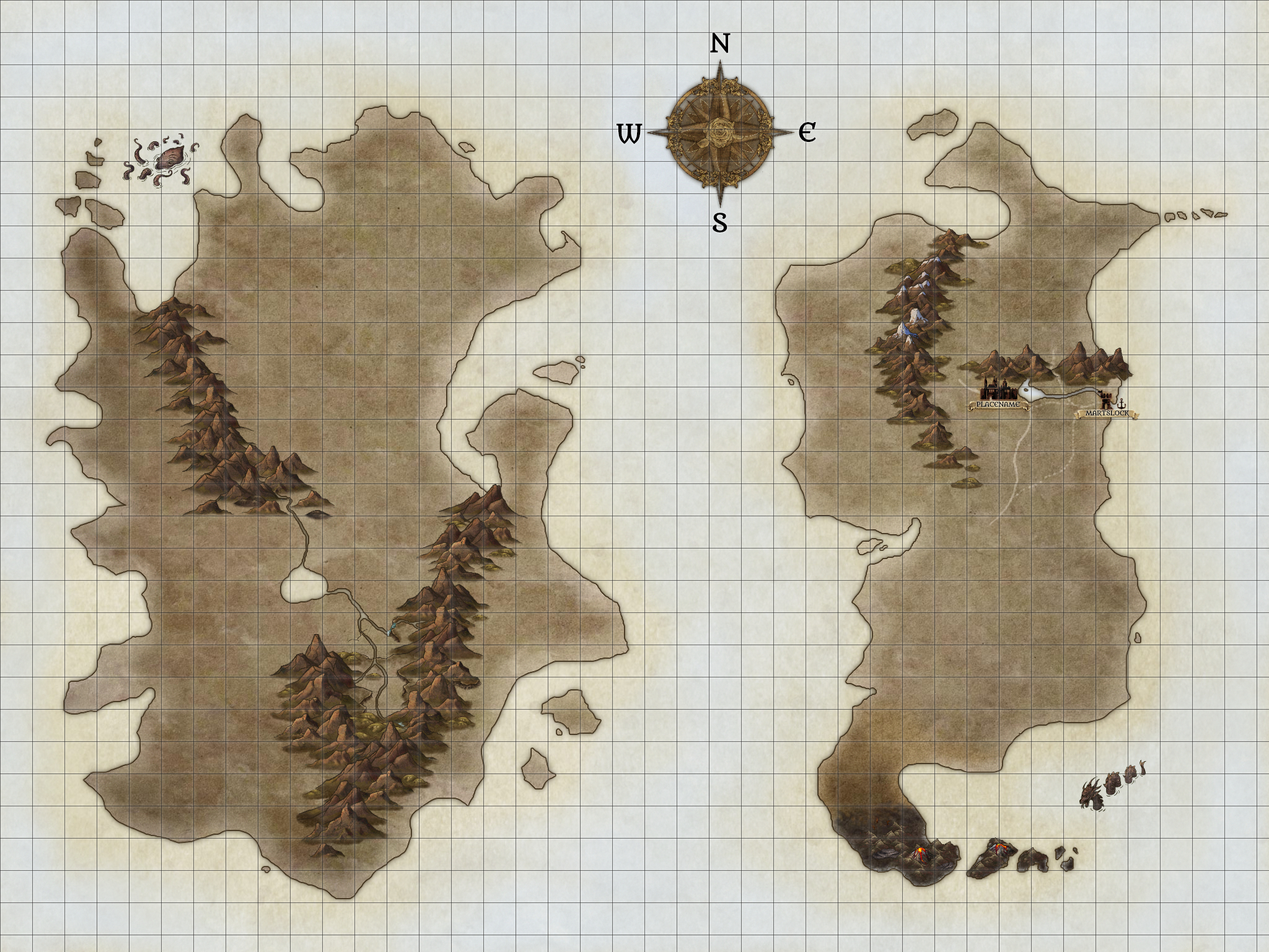
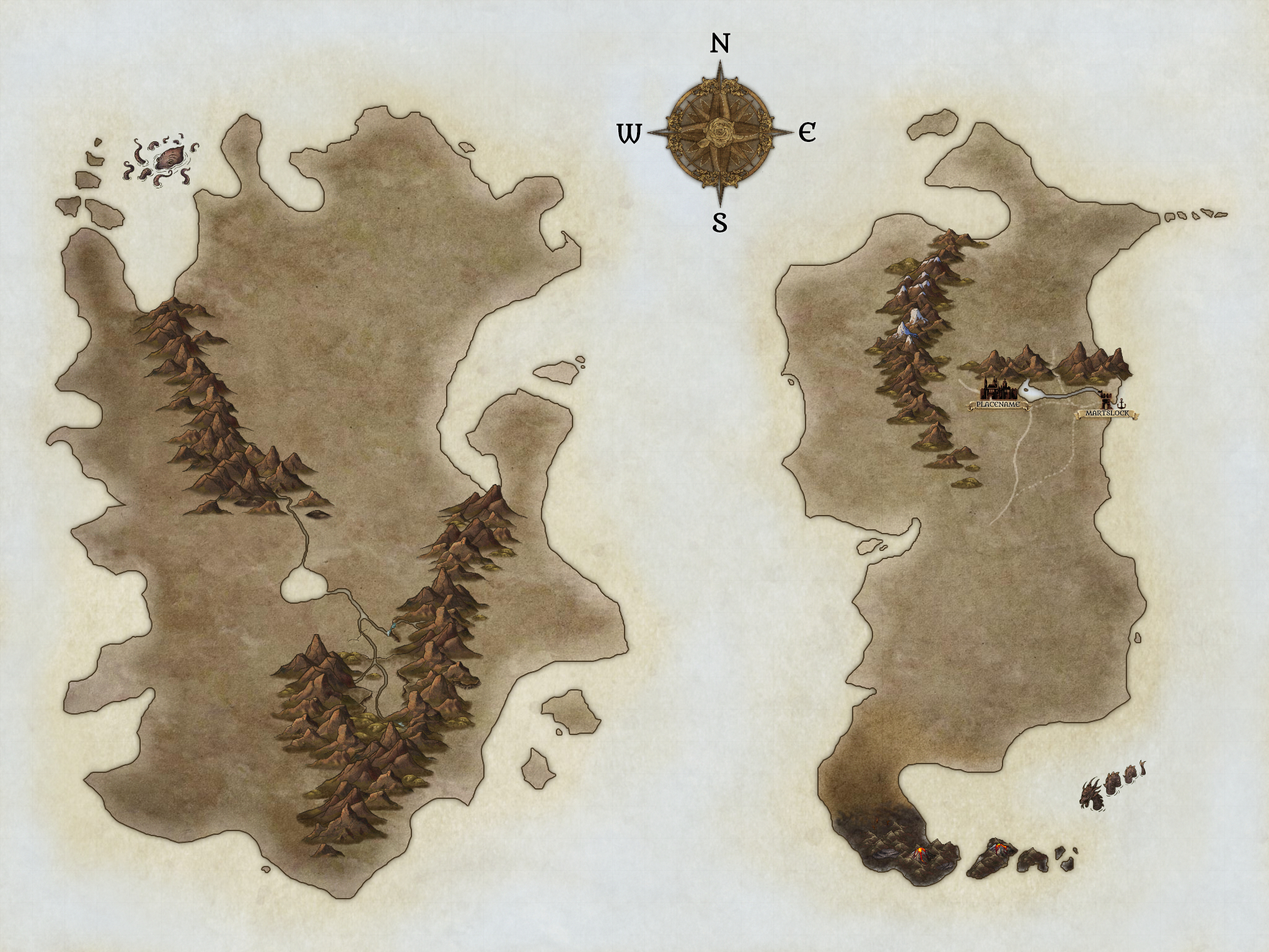
Updated map and spell search. Spells work

diff --git a/src/Components/RenderSpellbook/RenderSpellbook.js b/src/Components/RenderSpellbook/RenderSpellbook.js
@@ -1,9 +1,65 @@
 import React from 'react';
+// import { useQueryHandler } from '../../Hooks/useQueryHandler';
 
 export const RenderSpellbook = props => {
-	return (
-		<React.Fragment>
-			<h1>This is a Spellbook</h1>
-		</React.Fragment>
-	);
+	// const [ not sure yet ] = useQueryHandler[props.selectedResource, props.data]
+	let render = null;
+	let spellExtra = null;
+	let spellLevel = null;
+	if (props.data.higher_level) {
+		spellExtra = (
+			<div className="spellMoreText" >
+				<h1>Higher Levels</h1>
+				<hr/>
+				<p>{props.data.higher_level}</p>
+			</div>
+		)
+	} else {
+		spellExtra = <hr/>
+	}
+	if (props.data.level <= 0) {
+		spellLevel = "Cantrip"
+	} else if (props.data.level === 1) spellLevel = "1st level";
+	else if (props.data.level === 2) spellLevel = "2nd level";
+	else if (props.data.level === 3) spellLevel = "3rd level";
+		else spellLevel = props.data.level + "th level";
+	if(props.data.index && props.selectedResource === "Spells") {
+		render = (
+			<React.Fragment>
+				<h1>Here is the {props.selectedResource} you searched for:</h1>
+				<div className="cardHolder">
+					<div className="queryCard">
+						<h1 className="spellName">{props.data.name}</h1>
+						<p className="spellUnderTitle">{props.data.school.name} {spellLevel}</p>
+						<div className="spellStats" >
+							<p>
+								<b>Casting Time:</b> {props.data.casting_time}
+							</p>
+							<p>
+								<b>Range:</b> {props.data.range}
+							</p>
+							<p>
+								<b>Components:</b> {props.data.components.join(', ')}
+							</p>
+							<p>
+								<b>Duration:</b> {props.data.duration}
+							</p>
+							<p>
+								<b>Classes:</b> {props.data.classes.map(element => element.name).join(', ')}
+							</p>
+						</div>
+						<div className="spellText" >
+							{props.data.desc.map(paragraph => <p key={props.data.desc.indexOf(paragraph)}>{paragraph.replace("â€™", "'")}</p>)}
+						</div>
+						{spellExtra}
+					</div> 
+				</div>
+			</React.Fragment>
+		)
+	} else if(props.selectedResource !== "Spells") {
+		render =  (
+			<h1>Feature not fully developed yet. Please use "Spells".</h1>
+		)
+	} else render = <p>Please search for spells using spell name. Examples coming in later version.</p>
+	return render;
 }

diff --git a/src/Components/Playground/Playground.js b/src/Components/Playground/Playground.js
@@ -1,6 +1,7 @@
 import React from 'react';
 import './Playground.css';
 import { Player, Spellbook, WorldMap } from '../ContentSelector';
+import useForm from 'react-hook-form';
 
 
 const components = {
@@ -9,12 +10,21 @@ const components = {
 	worldmap: WorldMap
 }
 
-const query = 'Aid';
+// const query = 'Aid';
 
 const Playground = (props) => {
 	const ElementOne = components['player'];
 	const ElementTwo = components['spellbook'];
 	const ElementThree = components['worldmap'];
+
+// 	Initiating useForm and testing submit using console log
+	const { register, handleSubmit } = useForm();
+	const onSubmit = data => {
+		console.log(data);
+		props.onResourceSelect(data.resource);
+		props.onQuery(data.query);
+	}
+
 	return(
 		<React.Fragment>
 	        <h1>You are a {props.playgroundType}!</h1>
@@ -35,18 +45,25 @@ const Playground = (props) => {
 	        		</div>
 	        	</div>
 	        	<div className="flex-item">
-	        		<select 
-	        			onChange={props.onResourceSelect}
-	        			value={props.selectedResource}
-	        		>
-	        		{props.resources.map(res => (
-	        			<option key={res} value={res} >
-	        				{res}
-	        			</option>
-	        			))}
-	        		</select>
+
+{/*Using the react-hook-form instead of normal form have the react state be the "single source of truth" */}
+					<form onSubmit={handleSubmit(onSubmit)}>
+						<h2>Choose the resource you want to search for:</h2>
+						<select name="resource" ref={register}>
+							{props.resources.map(res => (
+								<option key={res} value={res} >
+									{res}
+								</option>
+							))}
+						</select>
+						<div>
+							<span>Search word: </span>
+							<input type="text" name="query" placeholder="Fireball" ref={register} />
+						</div>
+							<input type="submit" value="Search" />
+					</form>
 	        		<div>
-	        			<ElementTwo selectedResource={props.selectedResource} query={query} />
+	        			<ElementTwo selectedResource={props.selectedResource} query={props.query} />
 	        		</div>
 	        	
 	        	</div>

diff --git a/src/Components/App/App.js b/src/Components/App/App.js
@@ -41,22 +41,23 @@ const App = () => {
     {
       id: 0,
       name: 'World Map',
-      src: '/WorldMap_small.jpg',
-      src_large: '/WorldMap.jpg',
+      src: '/WorldMap.jpg',
+      src_large: '/WorldMap_large.jpg',
       alt: 'The world map of Miradonia',
       desc: 'Miradonia consists of two main continents. It is populated by a variety of races and monsters. '
     },
     {
       id: 1,
       name: 'Regional Map',
-      src: '/RegionalMap_small.jpg',
-      src_large: '/RegionalMap.jpg',
+      src: '/RegionalMap.jpg',
+      src_large: '/RegionalMap_large.jpg',
       alt: 'The region map of Mistwood',
       desc: ''
     }
   ]);
   const [ selectedCharacter, setSelectedCharacter ] = useState('mLdzKAN7AAGt3qPP2');
   const [ selectedResource, setSelectedResource ] = useState('Spells');
+  const [ query, setQuery ] = useState('Mending');
   const [ selectedMap, setSelectedMap ] = useState(0);
   const userTypeSelectHandler = (event) => {
     const selectedType = event.target.value;
@@ -68,9 +69,8 @@ const App = () => {
     setCharacterList(newCharacterList);
   }
   
-  const selectResourceHandler = (event) => {
-    const resource = event.target.value;
-    setSelectedResource(resource);
+  const selectResourceHandler = (newResource) => {
+    setSelectedResource(newResource);
   }
 
   const selectCharacterHandler = (event) => {
@@ -81,6 +81,10 @@ const App = () => {
   const selectMapHandler = (event) => {
     const mapId = event.target.value;
     setSelectedMap(mapId);
+  }
+
+  const handleQuery = (newQuery) => {
+    setQuery(newQuery);
   }
 
   let content = (
@@ -103,7 +107,9 @@ const App = () => {
         maps={mapList}
         selectedMap={selectedMap}
         onMapSelect={selectMapHandler}
-         />
+        query={query}
+        onQuery={handleQuery}
+         />  
       </div>
   )};
   return content;

diff --git a/src/Hooks/useHandbook.js b/src/Hooks/useHandbook.js
@@ -3,7 +3,7 @@ import { useState, useEffect } from 'react';
 export const useHandbook = (category, query) => {
 	const [ isLoading, setIsLoading ] = useState(false);
 	const [ error, setError ] = useState(null);
-	const [ data, setData ] = useState(null);
+	const [ queryResult, setQueryResult ] = useState(null);
 
 	const getQuery = () => {
 		let newUrl = '';
@@ -16,7 +16,7 @@ export const useHandbook = (category, query) => {
 			});
 			newUrl = 'https://cors-anywhere.herokuapp.com/http://dnd5eapi.co/api/' + category + '/?name=' + newQuery.join('+');
 		} else {
-			newUrl = 'https://cors-anywhere.herokuapp.com/http://dnd5eapi.co/api' + category;
+			newUrl = 'https://cors-anywhere.herokuapp.com/http://dnd5eapi.co/api/' + category;
 		}
 		return newUrl;
 	}
@@ -42,13 +42,20 @@ export const useHandbook = (category, query) => {
 	      			.then(response => response.json())
 	      			.then(data => {
 	      				setIsLoading(false);
-	      				setData(data);
+	      				setQueryResult(data);
 	      			})
 	      			.catch(error => {
 	      				console.log('2: ' + error);
 	      				setIsLoading(false);
 	      				setError(error);
 	      			})
+				} else if(data.count === 0) {
+					console.log('Nothing found. Make sure you use the right resource')
+					setIsLoading(false);
+				} else {
+					console.log('More than 1 result... To be dealt with in future version.')
+					setIsLoading(false);
+					setQueryResult(data);
 				}
 			})
 			.catch(error => {
@@ -60,6 +67,6 @@ export const useHandbook = (category, query) => {
 
 	useEffect(() => {
 		fetchData(getQuery());
-	}, []);
-	return [ data, error, isLoading ];
+	}, [category, query]);
+	return [ queryResult, error, isLoading ];
 };

diff --git a/src/Components/ContentSelector/ContentSelector.js b/src/Components/ContentSelector/ContentSelector.js
@@ -6,6 +6,7 @@ import { RenderSpellbook } from '../RenderSpellbook';
 import { RenderMap } from '../RenderMap';
 
 import Character from '../Character';
+import './ContentSelector.css';
 
 export const Player = (props) => {
 	const [ isLoading, fetchedData ] = useDicecloud(props.selectedChar);
@@ -44,14 +45,16 @@ export const Player = (props) => {
 }
 
 export const Spellbook = (props) => {
-	const [ fetchedData, error, isLoading ] = useHandbook('spells','Aid');
+	const [ fetchedData, error, isLoading ] = useHandbook(props.selectedResource, props.query);
 
-  	let content = <p>Loading spells...</p>;
+  	let content = <p>Loading {props.selectedResource}</p>;
   	if(!isLoading && fetchedData && !error) {
   		content = (
 			<React.Fragment>
-				<h1> Spellbook coming soon...</h1>
-				<RenderSpellbook />
+				<RenderSpellbook 
+					selectedResource={props.selectedResource}
+					data={fetchedData}
+				/>
 			</React.Fragment>
 		)
 	} else if(error) {

diff --git a/src/Components/Character/Character.js b/src/Components/Character/Character.js
@@ -1,6 +1,15 @@
 import React from 'react';
 
-import './Character.css';
+// import './Character.css';
+
+const portraitStyle = {
+  maxHeight: "25rem",
+  maxWidth: "100%",
+  border: "40px solid red",
+  borderImage: "url(portraitBorder.png) 100 round",
+  margin: "20px",
+  maxWidth: "75%"
+}
 
 const Character = props => {
   return (
@@ -16,7 +25,7 @@ const Character = props => {
         {props.dndClass[0]} level {props.dndClass[1]}
       </p>
       <p>
-        <img className="portrait" src={props.imgUrl} alt="Not found."/>
+        <img className="portrait" src={props.imgUrl} alt="Not found." style={portraitStyle} />
       </p>
       <p>
         {props.description}

diff --git a/src/Components/ContentSelector/ContentSelector.css b/src/Components/ContentSelector/ContentSelector.css
@@ -18,12 +18,3 @@
   font-weight: bold;
   color: #1a1a1a;
 }
-
-.portrait {
-	max-height: 25rem;
-	max-width: 100%;
-  border: 40px solid red;
-  border-image: url(Untitled.png) 100 round;
-  margin: 20px;
-  max-width: 75%;
-}

diff --git a/src/Components/Playground/Playground.css b/src/Components/Playground/Playground.css
@@ -10,7 +10,7 @@
   padding: 0.5rem 0;
   min-width: 10rem;
   min-height: 10rem;
-  border: solid black 1px;
+  border: transparent black 1px;
   background-color: white;
 }
 

diff --git a/src/Components/RenderMap/RenderMap.js b/src/Components/RenderMap/RenderMap.js
@@ -1,5 +1,4 @@
 import React from 'react';
-import './RenderMap.css';
 import { GlassMagnifier } from "react-image-magnifiers";
 
 const mapStyle = {
